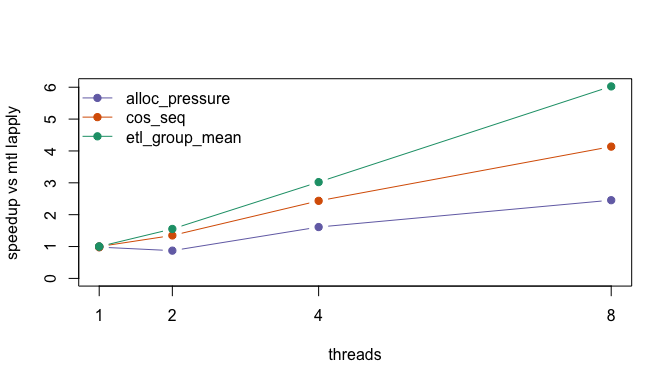
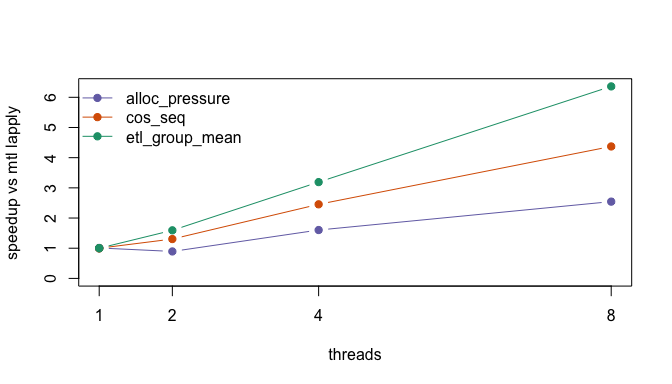
tools: add worker-native package smoke and stabilize validation ladder

diff --git a/README.md b/README.md
@@ -121,36 +121,36 @@ them:
 
 | workload | build | label | median_seconds | speedup_vs_rdevel_lapply | speedup_vs_sys_lapply | speedup_vs_mtl_lapply | efficiency_vs_mtl_lapply |
 |:---|:---|:---|---:|---:|---:|---:|---:|
-| alloc_pressure | mtl | lapply | 0.108 | 0.972 | 0.972 | 1.000 | NA |
-| alloc_pressure | mtl | mtlapply(1) | 0.110 | 0.955 | 0.955 | 0.982 | 0.982 |
-| alloc_pressure | mtl | mtlapply(2) | 0.124 | 0.847 | 0.847 | 0.871 | 0.435 |
-| alloc_pressure | mtl | mtlapply(4) | 0.067 | 1.567 | 1.567 | 1.612 | 0.403 |
-| alloc_pressure | mtl | mtlapply(8) | 0.044 | 2.386 | 2.386 | 2.455 | 0.307 |
-| alloc_pressure | rdevel | lapply | 0.105 | 1.000 | 1.000 | 1.029 | NA |
-| alloc_pressure | system | lapply | 0.105 | 1.000 | 1.000 | 1.029 | NA |
-| cos_seq | mtl | lapply | 0.426 | 1.089 | 1.026 | 1.000 | NA |
-| cos_seq | mtl | mtlapply(1) | 0.436 | 1.064 | 1.002 | 0.977 | 0.977 |
-| cos_seq | mtl | mtlapply(2) | 0.316 | 1.468 | 1.383 | 1.348 | 0.674 |
-| cos_seq | mtl | mtlapply(4) | 0.175 | 2.651 | 2.497 | 2.434 | 0.609 |
-| cos_seq | mtl | mtlapply(8) | 0.103 | 4.505 | 4.243 | 4.136 | 0.517 |
-| cos_seq | rdevel | lapply | 0.464 | 1.000 | 0.942 | 0.918 | NA |
-| cos_seq | system | lapply | 0.437 | 1.062 | 1.000 | 0.975 | NA |
-| etl_group_mean | mtl | lapply | 0.928 | 1.111 | 0.958 | 1.000 | NA |
-| etl_group_mean | mtl | mtlapply(1) | 0.929 | 1.110 | 0.957 | 0.999 | 0.999 |
-| etl_group_mean | mtl | mtlapply(2) | 0.598 | 1.724 | 1.487 | 1.552 | 0.776 |
-| etl_group_mean | mtl | mtlapply(4) | 0.307 | 3.358 | 2.896 | 3.023 | 0.756 |
-| etl_group_mean | mtl | mtlapply(8) | 0.154 | 6.695 | 5.773 | 6.026 | 0.753 |
-| etl_group_mean | rdevel | lapply | 1.031 | 1.000 | 0.862 | 0.900 | NA |
-| etl_group_mean | system | lapply | 0.889 | 1.160 | 1.000 | 1.044 | NA |
+| alloc_pressure | mtl | lapply | 0.117 | 0.991 | 0.932 | 1.000 | NA |
+| alloc_pressure | mtl | mtlapply(1) | 0.116 | 1.000 | 0.940 | 1.009 | 1.009 |
+| alloc_pressure | mtl | mtlapply(2) | 0.131 | 0.885 | 0.832 | 0.893 | 0.447 |
+| alloc_pressure | mtl | mtlapply(4) | 0.073 | 1.589 | 1.493 | 1.603 | 0.401 |
+| alloc_pressure | mtl | mtlapply(8) | 0.046 | 2.522 | 2.370 | 2.543 | 0.318 |
+| alloc_pressure | rdevel | lapply | 0.116 | 1.000 | 0.940 | 1.009 | NA |
+| alloc_pressure | system | lapply | 0.109 | 1.064 | 1.000 | 1.073 | NA |
+| cos_seq | mtl | lapply | 0.459 | 1.076 | 0.985 | 1.000 | NA |
+| cos_seq | mtl | mtlapply(1) | 0.461 | 1.072 | 0.980 | 0.996 | 0.996 |
+| cos_seq | mtl | mtlapply(2) | 0.352 | 1.403 | 1.284 | 1.304 | 0.652 |
+| cos_seq | mtl | mtlapply(4) | 0.187 | 2.642 | 2.417 | 2.455 | 0.614 |
+| cos_seq | mtl | mtlapply(8) | 0.105 | 4.705 | 4.305 | 4.371 | 0.546 |
+| cos_seq | rdevel | lapply | 0.494 | 1.000 | 0.915 | 0.929 | NA |
+| cos_seq | system | lapply | 0.452 | 1.093 | 1.000 | 1.015 | NA |
+| etl_group_mean | mtl | lapply | 0.986 | 1.091 | 0.933 | 1.000 | NA |
+| etl_group_mean | mtl | mtlapply(1) | 0.982 | 1.096 | 0.937 | 1.004 | 1.004 |
+| etl_group_mean | mtl | mtlapply(2) | 0.619 | 1.738 | 1.486 | 1.593 | 0.796 |
+| etl_group_mean | mtl | mtlapply(4) | 0.309 | 3.482 | 2.977 | 3.191 | 0.798 |
+| etl_group_mean | mtl | mtlapply(8) | 0.155 | 6.942 | 5.935 | 6.361 | 0.795 |
+| etl_group_mean | rdevel | lapply | 1.076 | 1.000 | 0.855 | 0.916 | NA |
+| etl_group_mean | system | lapply | 0.920 | 1.170 | 1.000 | 1.072 | NA |
 
     ## 
     ## Single-thread overhead check (per workload):
 
 | workload       | ratio_mtl_vs_sys | ratio_mtl_vs_rdevel |
 |:---------------|-----------------:|--------------------:|
-| alloc_pressure |            1.029 |               1.029 |
-| cos_seq        |            0.975 |               0.918 |
-| etl_group_mean |            1.044 |               0.900 |
+| alloc_pressure |            1.073 |               1.009 |
+| cos_seq        |            1.015 |               0.929 |
+| etl_group_mean |            1.072 |               0.916 |
 
     ## 
     ## Scaling (speedup vs `mtl` lapply):

diff --git a/AGENTS.md b/AGENTS.md
@@ -80,9 +80,16 @@ Use this as the standard iteration checklist after runtime changes.
 
 4. **Binary package ABI smoke (real workflow via dplyr)**
    - `tools/mtl-dplyr-smoke.sh build-mtl-shlib /Users/tomasz/Library/R/arm64/4.6/library 4`
-   - Confirms both main-thread and worker-thread usage in representative dplyr/tibble flows.
+   - Confirms package load and representative main-thread dplyr/tibble flows.
+   - Optional worker-side dplyr check is opt-in:
+     - `MTL_DPLYR_WORKER=1 build-mtl-shlib/bin/R --vanilla -q -f tools/mtl-dplyr-smoke.R --args /Users/tomasz/Library/R/arm64/4.6/library 4`
 
-5. **Benchmark checkpoint (always include in flow)**
+5. **Worker-native package smoke (`.Call`-heavy paths)**
+   - `build-mtl-shlib/bin/R --vanilla -q -f tools/mtl-worker-native-smoke.R --args /Users/tomasz/Library/R/arm64/4.6/library 4 64`
+   - Confirms package code that relies on native entry points behaves identically under `lapply()` and `mtlapply()` for representative workflows.
+   - Also emits `.Internal(mtlrpcstats(FALSE))` for quick visibility into worker->main fallback pressure.
+
+6. **Benchmark checkpoint (always include in flow)**
    - Generate timing artifacts:
      - System R:
        - `/usr/bin/R --vanilla -q -f bench/readme_bench_run.R --args bench/results/system.rds`
@@ -95,7 +102,7 @@ Use this as the standard iteration checklist after runtime changes.
    - Refresh human-readable report:
      - `build-mtl-shlib/bin/R --vanilla -q -e 'rmarkdown::render(\"README.Rmd\", output_format = \"github_document\")'`
 
-6. **Interpretation rule**
+7. **Interpretation rule**
    - Check serial parity first (`lapply` path in MTL build vs R-devel/system R).
    - Then check scaling (`mtlapply(2/4/8)` vs `mtlapply(1)` and `lapply`).
    - Treat benchmark noise seriously: prefer larger workloads and repeated runs before concluding regressions.
@@ -105,7 +112,15 @@ Use this as the standard iteration checklist after runtime changes.
 - Required for each checkpoint:
   - ABI smoke (`tools/mtl-abi-smoke.R`)
   - dplyr smoke (`tools/mtl-dplyr-smoke.R`)
+  - worker-native smoke (`tools/mtl-worker-native-smoke.R`)
 - Any regression here blocks progress, even if internal microbenchmarks improve.
+
+## Active Execution Plan (Current)
+- [x] Add worker->main RPC reason counters and expose stats (`.Internal(mtlrpcstats)`).
+- [x] Add package smoke wrapper (`tools/mtl-package-smoke.sh`) that runs ABI + dplyr checks.
+- [x] Add dedicated worker-native package smoke for `.Call`-heavy paths.
+- [ ] Expand worker-native smoke to more compiled packages (as available in system library).
+- [ ] Keep serial benchmark parity at each checkpoint before increasing worker coverage.
 
 ## Notes / Questions to Keep In Mind
 - Serial parity is non-negotiable: any added checks/atomics/dispatch on hot serial paths must be avoided.
